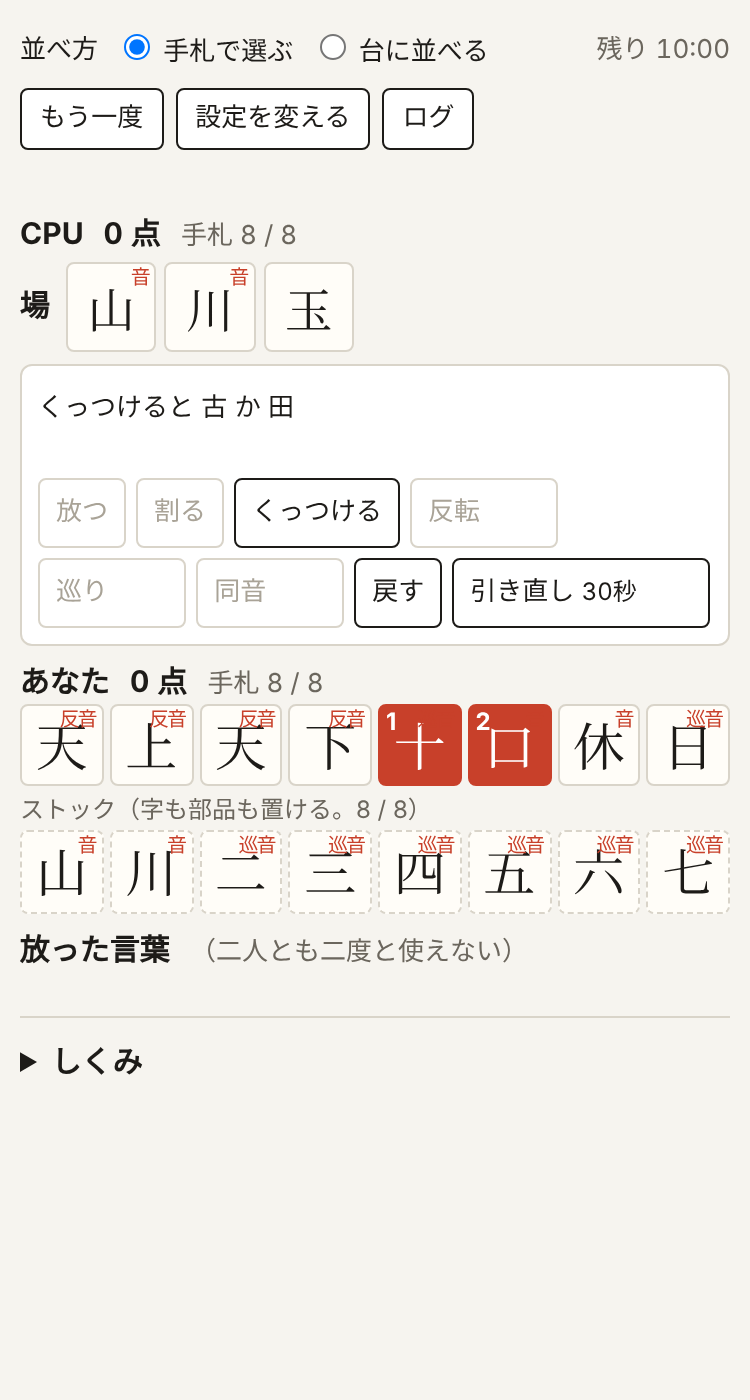
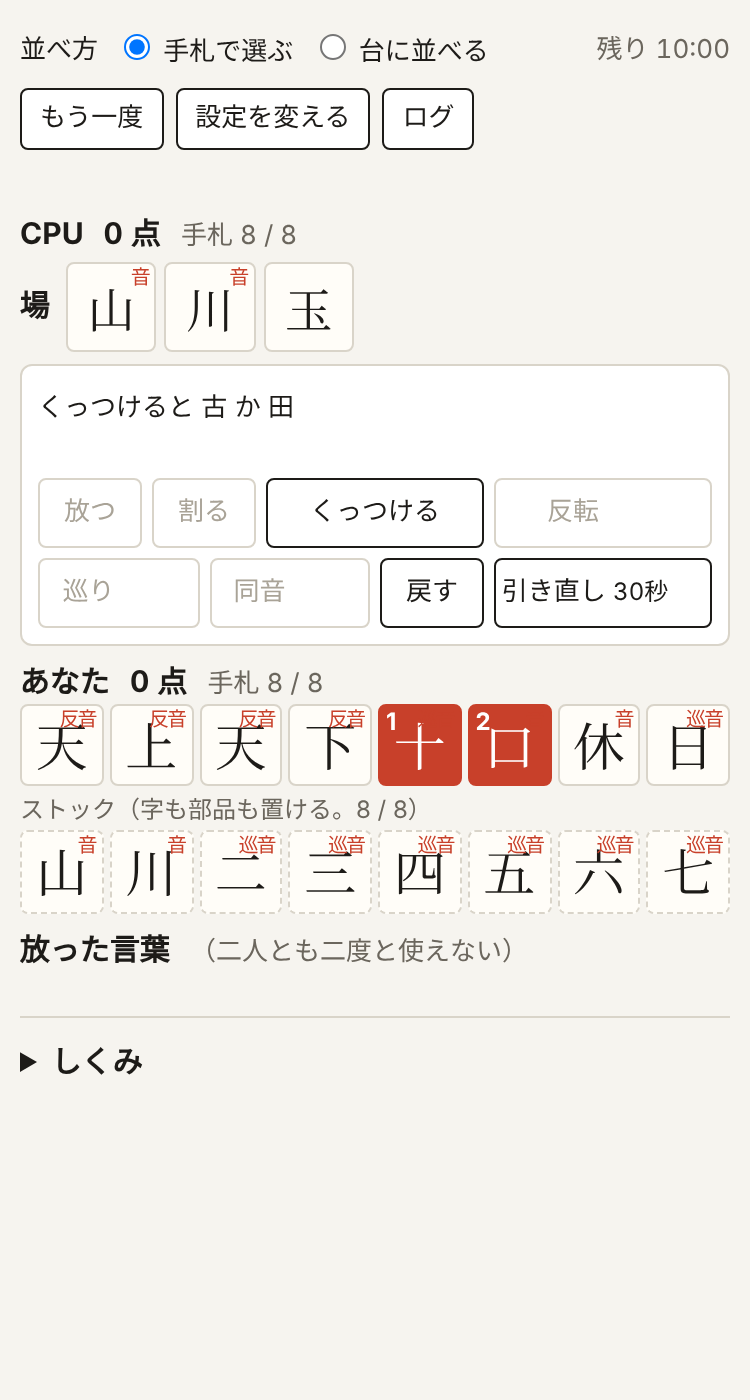
KJ-010: ボタンを12列の2段に固定する（CI の Chromium で3段に折り返したため）
Claude-Session: https://claude.ai/code/session_01CHAiRRNLfQPyrZKwaACpXe

diff --git a/index.html b/index.html
@@ -144,9 +144,13 @@ body.dragging .tray.empty .slot{aspect-ratio:1;height:auto}
   .row .tile{width:46px;height:46px;font-size:30px}
   .info{height:38px;margin:4px 0 6px;font-size:13px;line-height:19px}
   .info .w{font-size:16px}
-  .ops{gap:5px}
-  button.op{font-size:13px;padding:6px 8px;min-width:0}
-  #bRedraw .cdv{width:4.6em}
+  /* ボタンは12列の2段に固定する（字の幅が環境でちがっても折り返さない） */
+  .ops{display:grid;grid-template-columns:repeat(12,minmax(0,1fr));gap:5px}
+  .ops button.op{font-size:13px;padding:6px 2px;min-width:0;white-space:nowrap;overflow:hidden;text-align:center}
+  #bRelease,#bSplit,#bBack{grid-column:span 2}
+  #bJoin,#bInvert,#bRedraw{grid-column:span 4}
+  #bCycle,#bHomo{grid-column:span 3}
+  #bRedraw .cdv{width:3.8em}
   .trayhead{margin:4px 0 2px;line-height:1.3}
 </style>
 </head>
